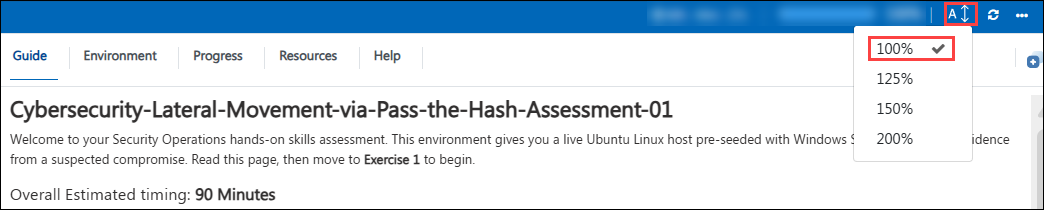
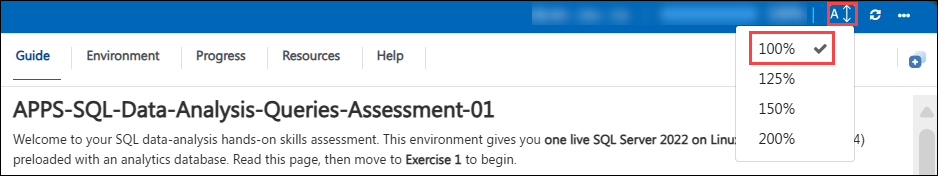
updated images

diff --git a/APPS-SQL-Data-Analysis-Queries-Assessment-01/Lab-01-SQL-Data-Analysis/LabGuidePackage/LabGuide/GettingStarted.md b/APPS-SQL-Data-Analysis-Queries-Assessment-01/Lab-01-SQL-Data-Analysis/LabGuidePackage/LabGuide/GettingStarted.md
@@ -1,6 +1,6 @@
 # **APPS-SQL-Data-Analysis-Queries-Assessment-01**
 
-Welcome to your SQL data-analysis hands-on skills assessment. This environment gives you **one live SQL Server 2022 on Linux** node (Ubuntu 22.04) preloaded with an analytics database. Read this page, then move to **Exercise 1** to begin.
+Welcome to your SQL data-analysis hands-on skills assessment. This environment gives you **one live SQL Server 2022 on Linux** node (Ubuntu 22.04) preloaded with an analytics database. Read this page, then move to **Scenario 1** to begin.
 
 ### Overall Estimated timing: **90 Minutes**
 
@@ -79,7 +79,7 @@ The CloudLabs support team is available 24/7 via email and live chat.
 - Email Support: [email redacted]
 - Live Chat Support: https://cloudlabs.ai/labs-support
 
-Click **Next** to begin Exercise 1.
+Click **Next** to begin Scenario 1.
 
 ![alt text](./images/04.png)
 

diff --git a/APPS-SQL-Data-Analysis-Queries-Assessment-01/Lab-01-SQL-Data-Analysis/LabGuidePackage/LabGuide/labguide-2.md b/APPS-SQL-Data-Analysis-Queries-Assessment-01/Lab-01-SQL-Data-Analysis/LabGuidePackage/LabGuide/labguide-2.md
@@ -1,4 +1,4 @@
-# Scenario 2: Remove Duplicates with Ranking
+# **Scenario 2: Remove Duplicates with Ranking**
 
 ## **Lab Overview**
 
@@ -27,7 +27,7 @@ Use a **ranking window function** — `ROW_NUMBER() OVER (PARTITION BY CustomerI
 
 <validation step="e743fde9-f4a2-45b5-943b-7e8be60b1eda" />
 
-Click **Next** to begin Exercise 1.
+Click **Next** to begin Scenario 3.
 
 ![alt text](./images/4.2.png)
 

diff --git a/APPS-SQL-Data-Analysis-Queries-Assessment-01/Lab-01-SQL-Data-Analysis/LabGuidePackage/LabGuide/labguide-1.md b/APPS-SQL-Data-Analysis-Queries-Assessment-01/Lab-01-SQL-Data-Analysis/LabGuidePackage/LabGuide/labguide-1.md
@@ -30,7 +30,7 @@ Use `GROUP BY` over a month expression derived from `SaleDate` (for example `FOR
 
 <validation step="1057d158-eec2-4943-a1bf-edd8b59872c9" />
 
-Click **Next** to begin Exercise 1.
+Click **Next** to begin Scenario 2.
 
 ![alt text](./images/4.1.png)
 